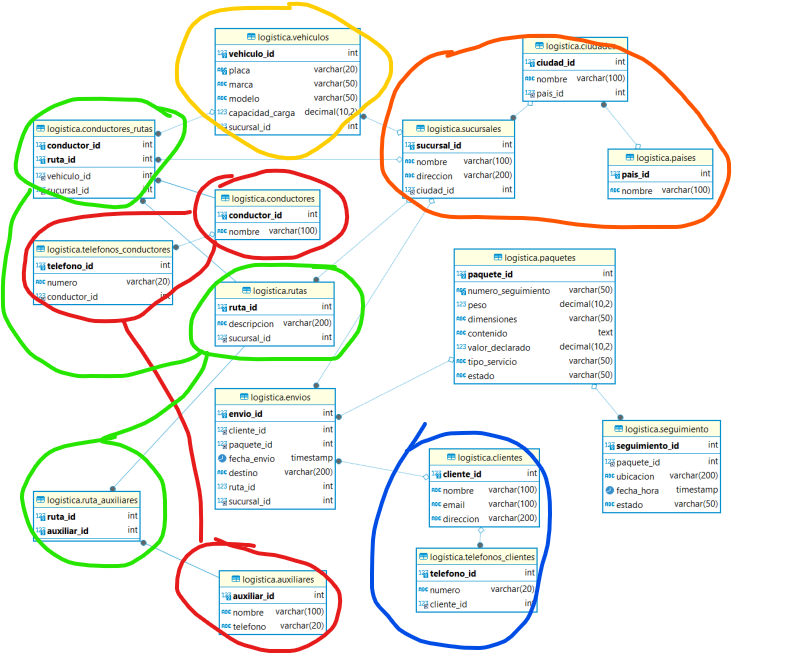
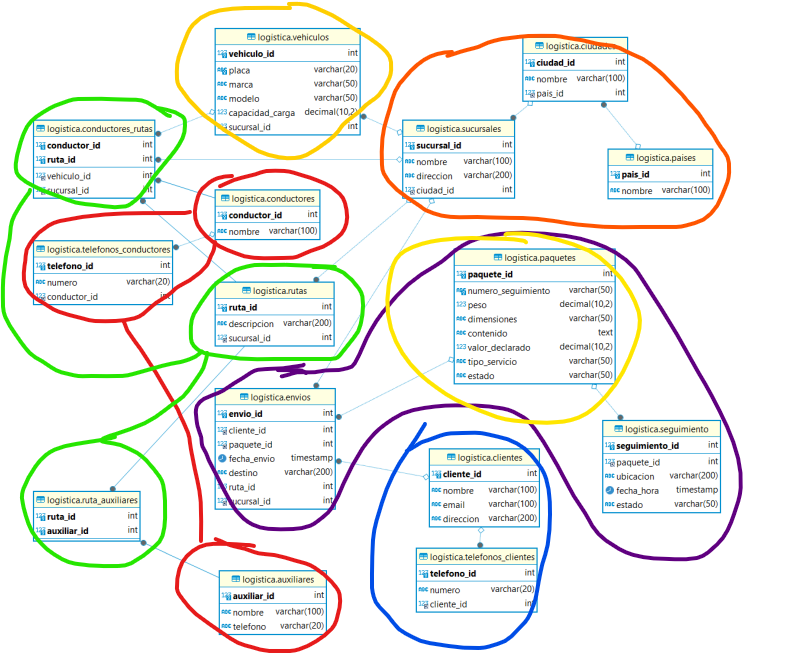
feat: :zap: Logistica: Colecciones definidas
Se definin las colecciones

diff --git a/Logistica/Readme.md b/Logistica/Readme.md
@@ -1,12 +1,8 @@
 # Trabajo Logistica 
 
-![image-20240702155857180](C:\Users\HP\AppData\Roaming\Typora\typora-user-images\image-20240702155857180.png)
-
 Creación de la base de datos En mongo partiendo de la imagen de SQL 'Normalizada'
 
-Primera colección: Sucursales 
-
-![image-20240702150709491](C:\Users\HP\AppData\Roaming\Typora\typora-user-images\image-20240702150709491.png)
+Primera colección: Sucursales --Naranja
 
 ```json
 {
@@ -26,7 +22,7 @@ Primera colección: Sucursales
 }
 
 ```
-Segunda Colección : Cliente 
+Segunda Colección : Cliente  -- Azul
 
 ![image-20240702155524925](C:\Users\HP\AppData\Roaming\Typora\typora-user-images\image-20240702155524925.png)
 
@@ -57,7 +53,7 @@ Segunda Colección : Cliente
 
 
 ```
-Tercer Coleccion: Vehiculos 
+Tercer Coleccion: Vehiculos  -- Amarillo 
 
 ```json
 {
@@ -70,7 +66,7 @@ Tercer Coleccion: Vehiculos
 
 ```
 
-Cuerto Coleccion: Empleados 
+Cuerto Coleccion: Empleados  -- Rojo
 
 ```json
 {
@@ -82,13 +78,13 @@ Cuerto Coleccion: Empleados
       "uso": "casa"
     }
   ],
-  "rol": "Auxiliar" 
+  "rol": "Auxiliar" // Rol : auxiliar, conductor 
 }
--- Rol : auxiliar, conductor 
+
 
 ```
 
-Quinta Coleccion: Rutas
+Quinta Coleccion: Rutas -- Verde
 
 ```json
 {
@@ -105,13 +101,42 @@ Quinta Coleccion: Rutas
 
 ```
 
-Sexta Colección: Envíos 
+Sexta Colección: Envíos -- Morado
 
 ```json
 {
-    envio: id 
-    cliente : id 
-    
+    "_id": ObjectId("ID único para el envío"),  // ID único para el envío
+    "cliente_id": ObjectId("ID del cliente"),  // ID del cliente
+    "paquete_id": [
+        ObjectId("ID del paquete 1"),
+        ObjectId("ID del paquete 2")
+    ],  // IDs de los paquetes
+    "sucursal_destino": ObjectId("ID Sucursal"),  // ID de la sucursal de destino
+    "sucursal_origen": ObjectId("ID Sucursal"),  // ID de la sucursal de origen
+    "estado": [
+        {
+            "estado": "En tránsito",  // Estado del envío
+            "ubicacion": {
+                "latitud": 37.7749,
+                "longitud": -122.4194
+            },  // Coordenadas
+            "fecha_hora": ISODate("2023-07-04T12:00:00Z")  // Fecha y hora del registro del estado
+        }
+    ],
+    "fecha_envio": ISODate("2023-07-04T10:00:00Z"),  // Fecha del envío
+    "ruta_id": ObjectId("ID de la Ruta"),  // ID de la ruta
+    "tipo_servicio": "Express"  // Tipo de servicio
 }
+
 ```
 
+Septima Coleccion: Paquetes -- Amarillo 
+```json 
+ {
+    "_id": ObjectId("ID único del paquete"),  // ID único para el paquete
+    "peso": "Peso en kg del artículo",  // en kg
+    "dimensiones": ["altura", "ancho", "profundidad"],  // en cm
+    "contenido": "Descripción del Artículo",
+    "valor_declarado": 100000  // en COP
+}
+```
